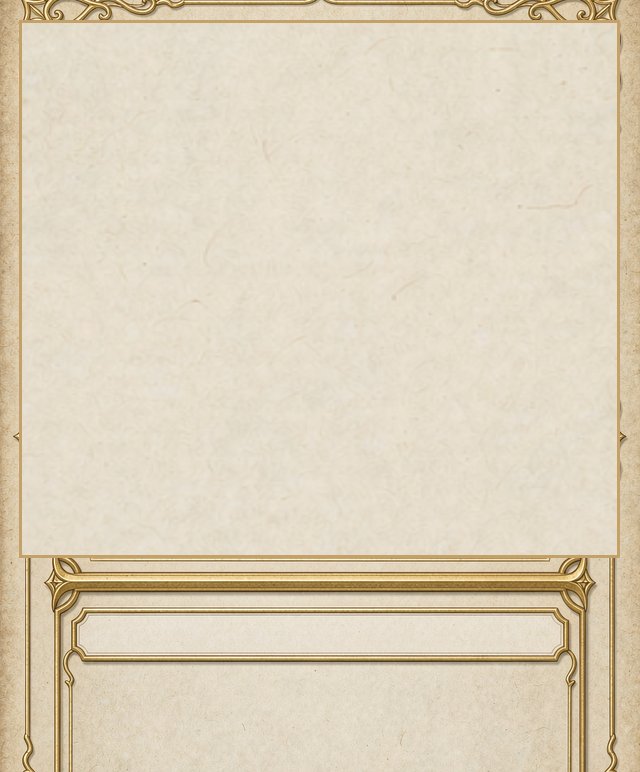
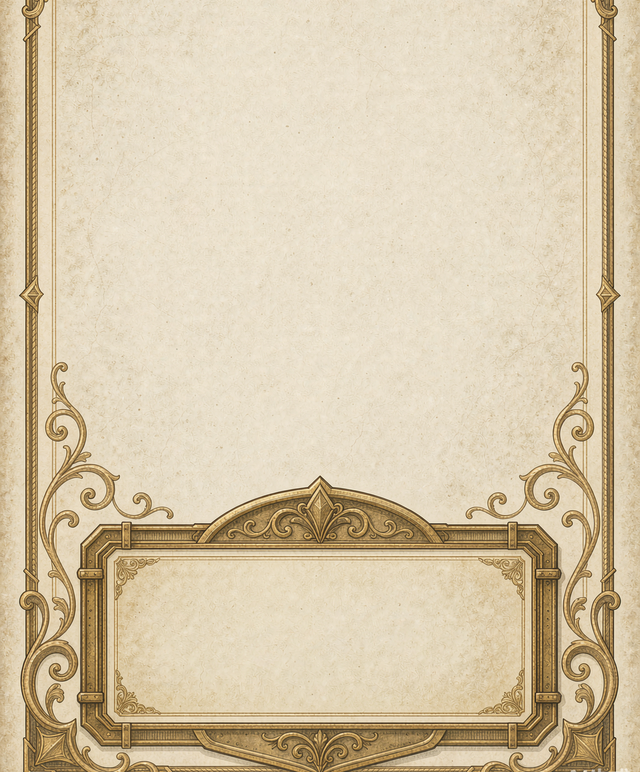
R193 卡面纸底重设计：装饰下移下半 + 卡名框（姓名牌内框），四尺寸适配
- assets/ui/card_paper.png 重做为 v4：装饰 ornate 框落在下半作卡名框，卡图区在上
- card_paper_layout.json art_ratio 0.745->0.662，新增 nameplate 内框
- ui_theme.gd / card_face.gd 按姓名牌内框重排卡名与文字区，有纸底不再手画底框
- art_src 归档 v3 旧稿、v4 新稿、AI 原图与预览拼图
- 五套回归全绿（engine 2424 / reward 26 / replay 35 / bgm 31 / smoke 29）

diff --git a/art_src/tools/_process_card_paper.py b/art_src/tools/_process_card_paper.py
@@ -1,74 +1,84 @@
 # -*- coding: utf-8 -*-
-"""卡片底图 v2 处理：裁剪 0.83 + 扫分区坐标（金线/窗/名称条）+ 输出工程规格 png。"""
+"""卡片底图 v4 处理（R193）：裁水印 + 缩放到 640 宽 + 取底部 772 + 输出分区坐标。"""
 from PIL import Image
 import json
 
-SRC = r'D:\work\gen_raw\Trading_card_game_card_frame_t_2026-10-12T11-25-47.png'
+SRC = r'D:\work\gen_raw\Blank_fantasy_trading_card_tem_2026-10-16T12-40-22.png'
 DST = r'D:\work\card_rogue\assets\ui\card_paper.png'
 REPORT = r'D:\work\card_rogue\assets\ui\card_paper_layout.json'
 
 img = Image.open(SRC).convert('RGB')
 w, h = img.size
-print('src:', w, h)
 
-# 裁剪：去掉右下角水印 + 裁到 0.83（1024 x 1234）
-crop = img.crop((0, 40, 1024, 1274))
+# 裁掉右下角 AI 水印（底部约 55px）
+crop = img.crop((0, 0, w, h - 55))
 cw, ch = crop.size
-print('crop:', cw, ch, 'ratio=%.3f' % (cw / ch))
 
-# 扫金线行：中部横条与名称条上下缘（金 = r>150 and g>110 and b<130 and r > b+35）
-px = crop.load()
+# 等比缩放到宽 640，再取底部 772 px（保留完整底纹姓名牌）
+scale = 640.0 / cw
+scaled = crop.resize((640, int(round(ch * scale))), Image.LANCZOS)
+sw, sh = scaled.size
+final_h = 772
+if sh < final_h:
+    pad = Image.new('RGB', (sw, final_h), (245, 240, 228))
+    pad.paste(scaled, (0, final_h - sh))
+    out = pad
+else:
+    out = scaled.crop((0, sh - final_h, sw, sh))
+fw, fh = out.size
+
+px = out.load()
+
 def is_gold(c):
     r, g, b = c
     return r > 150 and g > 110 and b < 135 and r > b + 35
 
-row_gold = []
-for y in range(ch):
-    n = 0
-    for x in range(cw):
-        if is_gold(px[x, y]):
-            n += 1
-    row_gold.append(n)
-
-# 峰值行（>60% 宽度的金行 = 横条中心）
-peaks = [(y, n) for y, n in enumerate(row_gold) if n > cw * 0.55]
-# 聚类
+row_gold = [sum(1 for x in range(fw) if is_gold(px[x, y])) for y in range(fh)]
+peaks = [(y, n) for y, n in enumerate(row_gold) if n > fw * 0.25]
 groups = []
 for y, n in peaks:
     if groups and y - groups[-1][-1][0] <= 3:
         groups[-1].append((y, n))
     else:
         groups.append([(y, n)])
-centers = [sum(y * n for y, n in g) / sum(n for y, n in g) for g in groups]
-print('gold bar centers (y, frac):', [(round(c), round(c / ch, 4)) for c in centers])
+centers = [sum(y*n for y, n in g) / sum(n for y, n in g) for g in groups]
 
-# 窗：扫内框金线的左右边界（在窗区 y 中点横切找金线列）
-mid_y = ch // 3
+# art_ratio：取 0.45~0.85 之间的最高金条中心
+sep_candidates = [c for c in centers if 0.45 < c/fh < 0.85]
+art_ratio = round(min(sep_candidates) / fh, 4) if sep_candidates else 0.662
+
+# 姓名牌内框：按 R193 人工目检定下的安全区（AI 实测因明暗渐变会偏小）
+np_x0, np_y0, np_x1, np_y1 = 0.06, 0.745, 0.94, 0.94
+
+# 卡图窗 x 边距：在 art 中部横切，找内框金线列
+mid_y = int(fh * art_ratio * 0.5)
 gold_cols = []
-for x in range(cw):
-    n = 0
-    for y in range(int(ch * 0.06), int(ch * 0.52)):
-        if is_gold(px[x, y]):
-            n += 1
-    if n > ch * 0.06:
+for x in range(fw):
+    n = sum(1 for y in range(max(0, mid_y-20), min(fh, mid_y+20)) if is_gold(px[x, y]))
+    if n > 6:
         gold_cols.append(x)
-print('art window x range:', (gold_cols[0], gold_cols[-1]) if gold_cols else None)
+art_x0 = round((gold_cols[0] + 4) / fw, 4) if gold_cols else 0.06
+art_x1 = round((gold_cols[-1] - 4) / fw, 4) if gold_cols else 0.94
 
 layout = {
-    "note": "card_paper.png v2 分区坐标（归一化，R152 由 PIL 从底图实测）",
-    "art_ratio": round(centers[0] / ch, 4) if centers else 0.50,
-    "gold_centers": [round(c / ch, 4) for c in centers],
+    "note": "card_paper.png v4 分区坐标（归一化，R193 PIL 从 AI 生成底图实测）",
+    "art_ratio": art_ratio,
+    "gold_centers": [round(c / fh, 4) for c in centers],
     "art_window": {
-        "x0": round((gold_cols[0] + 6) / cw, 4) if gold_cols else 0.07,
-        "x1": round((gold_cols[-1] - 6) / cw, 4) if gold_cols else 0.93,
-        "y0": 0.055,
-        "y1": round(centers[0] / ch - 0.015, 4) if centers else 0.48,
+        "x0": art_x0,
+        "x1": art_x1,
+        "y0": 0.03,
+        "y1": round(art_ratio - 0.015, 4),
     },
+    "nameplate": {
+        "x0": np_x0,
+        "y0": np_y0,
+        "x1": np_x1,
+        "y1": np_y1,
+    }
 }
 print(json.dumps(layout, ensure_ascii=False, indent=1))
 
-# 输出工程规格：640 x 772（0.829）
-out = crop.resize((640, 772), Image.LANCZOS)
 out.save(DST)
 with open(REPORT, 'w', encoding='utf-8') as f:
     json.dump(layout, f, ensure_ascii=False, indent=1)

diff --git a/art_src/2026-10-16_卡面纸底v4/README.md b/art_src/2026-10-16_卡面纸底v4/README.md
@@ -1,0 +1,22 @@
+# 卡面纸底 v4（R193）
+
+用户口径：「花纹不像是在下半，反而像是上半的。并且和文字很不搭。做成有个卡名框的样式，注意和卡名文字位置要契合，且能容纳尽可能大量的文字（在卡片宽度范围内）」。
+
+## 文件
+
+- `raw_ai_template.png`：ImageGen 生成的 1024×1536 竖版卡框原图（日式二次元 + 西幻，parchment + 底部 ornate 姓名牌）。
+- `card_paper_v3_old.png`：R156~R192 使用的旧纸底（v3，顶部装饰重、底部姓名牌偏窄）。
+- `card_paper_v4_new.png`：最终采用、裁水印并缩放到 640×772 的工程模板。
+- `preview_montage.png`：PIL 仿真器在 battle / hand / reward / pick 四种尺寸下的合成预览。
+- 处理脚本见 `art_src/tools/_process_card_paper.py`（已更新为 v4 流程）。
+
+## 分区坐标（归一化）
+
+- `art_ratio` = 0.662（卡图/文字区分隔金条顶部）
+- 姓名牌内框：`x0=0.06, y0=0.745, x1=0.94, y1=0.94`
+- 卡图窗：`x0=0.06, x1=0.94, y0=0.03, y1=0.647`
+
+## 代码联动
+
+- `scripts/ui_theme.gd`：新增 `CARD_NAMEPLATE_*` 常量，并将 `CARD_ART_RATIO` 改为 0.662。
+- `scripts/card_face.gd`：`draw_pick()` / `_draw_text_zone()` / `draw_text_backing()` 全部改为按姓名牌内框排布；`draw()` 有纸底时不再手画底部框线，避免双重边框。
